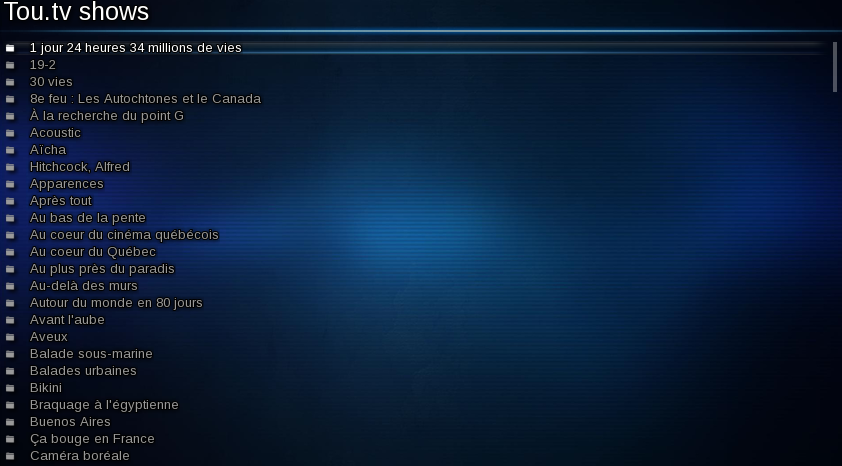
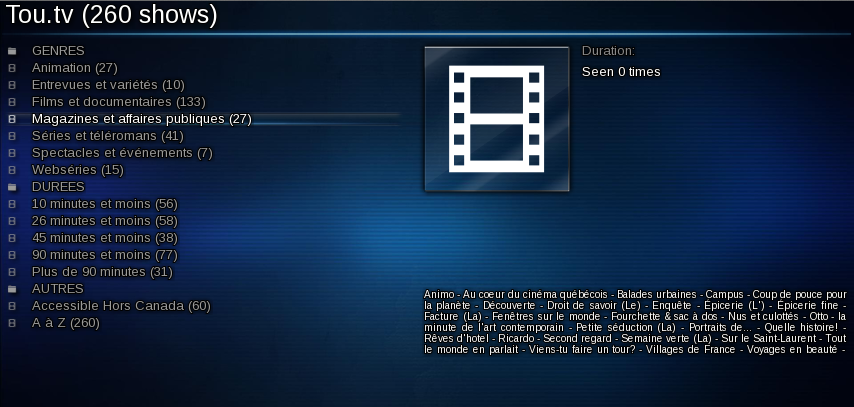
using categories to help navigation

Changed region(s): [[0.0, 0.0, 1.0, 1.0], [0.8029, 0.5307, 0.9881, 0.6781]]

diff --git a/tou.tv.js b/tou.tv.js
@@ -1,7 +1,7 @@
 /**
  * Showtime plugin to watch RadioCanada's tou.tv shows
  *
- * Copyright (C) 2013 Anthony Dahanne
+ * Copyright (C) 2013-2014 Anthony Dahanne
  *
  *     This file is part of Tou.tv Showtime plugin.
  *
@@ -28,77 +28,196 @@
   var HLS_PREFIX = "hls:";
   var EMISSIONS_URL = "http:/api.tou.tv/v1/toutvapiservice.svc/json/GetPageRepertoire";
   var EPISODES_URL = "https://api.tou.tv/v1/toutvapiservice.svc/json/GetEpisodesForEmission?emissionid=";
+  var GENRES_URL = "http://api.tou.tv/v1/toutvapiservice.svc/json/GetPageGenre?genre="
   var JSON_OUTPUT = "&output=json";
   var EPISODE_VALIDATION_URL = "http://api.radio-canada.ca/validationMedia/v1/Validation.html?appCode=thePlatform&deviceType=iphone4&connectionType=wifi&idMedia=";
-
+  var CATEGORIEDUREES =  new Array("10 minutes et moins", "26 minutes et moins", "45 minutes et moins", "90 minutes et moins", "Plus de 90 minutes");
+  var TOUTV = "Tou.tv";
   // Register a service (will appear on home page)
   var service = plugin.createService("Tou.tv", PLUGIN_PREFIX+"start", "tv", true, plugin.path + "toutv.png");
 
-  // register the settings
-  var settings = plugin.createSettings("Tou.tv",
-    plugin.path + "toutv.png",
-    "Showtime plugin to watch RadioCanada's Tou.tv shows (Unofficial)");
-
-  settings.createInfo("info",
-    plugin.path + "toutv.png",
-    "\n"+
-      "Tou.tv Showtime plugin is the integration of the website tou.tv into Showtime.\n" +
-      "Most of the content is in french, and only accessible from Canada (ip address restriction).\n"+
-      "That said, some 'webseries' such as Dakodak or J'adopte un pays, "+
-      "and some other documentaries such as Villages en France can be played from any country "+
-      "(I would say 10% of the shows can be played from outside Canada)\n\n"+
-      "Disable episodes metadata preloading if you are located in Canada; episodes list loading will be faster (if you are not located in Canada, let it enabled; episodes listing will be slower but at least you'll know whether you can play the episodes or not !\n");
-
-  settings.createBool("disableEpisodesMetadataPreloading", "Disable episodes metadata preloading", false, function(v) {
-    service.disableEpisodesMetadataPreloading = v;
-  });
-
-
   // Add a responder to the registered start URI
   plugin.addURI(PLUGIN_PREFIX+"start", function(page) {
-    page.type = "directory";
-    page.metadata.title = "Tou.tv shows";
-
     showtime.trace("Getting emissions list : " + EMISSIONS_URL);
     var getEmissionsResponse = showtime.httpGet(EMISSIONS_URL);
     var emissions = showtime.JSONDecode(getEmissionsResponse);
 
-    for each (var emission in emissions.d.Emissions) {
-      page.appendItem(PLUGIN_PREFIX+"emission:"+emission.Id+":"+emission.Titre, "directory", {
-        title: emission.Titre
+    var totalNumberOfShows = emissions.d.Emissions.length;
+    page.type = "directory";
+    page.metadata.title = TOUTV + " (" + totalNumberOfShows + " shows)";
+
+    page.appendItem(PLUGIN_PREFIX+"start", "directory", {
+        title: "GENRES"
+    });
+    for each (var genre in emissions.d.Genres) {
+      var numberOfShowsPerGenre = 0;
+      var listOfShowsPerGenre = "";
+      for each (var emission in emissions.d.Emissions) {
+        if(emission.Genre == genre.Title) {
+          numberOfShowsPerGenre ++;
+          listOfShowsPerGenre += emission.Titre + " - ";
+        }
+      }
+      page.appendItem(PLUGIN_PREFIX+"genre:"+genre.Id+":"+genre.Title, "video", {
+        title: genre.Title + " (" + numberOfShowsPerGenre +  ")",
+        description: listOfShowsPerGenre
       });
     }
 
+    page.appendItem(PLUGIN_PREFIX+"start", "directory", {
+        title: "DUREES"
+    });
+    for each (var duree in CATEGORIEDUREES) {
+      var numberOfShowsPerDuree = 0;
+      var listOfShowsPerDuree = "";
+      for each (var emission in emissions.d.Emissions) {
+          if(emission.CategorieDuree == duree) {
+            numberOfShowsPerDuree ++;
+            listOfShowsPerDuree += emission.Titre + " - ";
+          }
+        }
+
+      page.appendItem(PLUGIN_PREFIX+"duree:"+duree, "video", {
+        title: duree + " (" + numberOfShowsPerDuree +  ")",
+        description: listOfShowsPerDuree
+      });
+    }
+
+    page.appendItem(PLUGIN_PREFIX+"start", "directory", {
+        title: "AUTRES"
+    });
+
+    var numberOfShowsNotGeoTagged = 0;
+    var listOfShowsNotGeoTagged = "";
+    for each (var emission in emissions.d.Emissions) {
+        if(emission.IsGeolocalise == false) {
+          numberOfShowsNotGeoTagged ++;
+          listOfShowsNotGeoTagged += emission.Titre + " - ";
+        }
+      }
+    page.appendItem(PLUGIN_PREFIX+"outsidecanada", "video", {
+        title: "Accessible Hors Canada" + " (" + numberOfShowsNotGeoTagged +  ")",
+        description: listOfShowsNotGeoTagged
+    });
+    page.appendItem(PLUGIN_PREFIX+"az", "video", {
+        title: "A à Z"  + " (" + totalNumberOfShows +  ")"
+    });
+
     page.loading = false;
+  });
+
+  function genreMatches(emission, genreTitle) {
+    if(emission.Genre == genreTitle) {
+      return true;
+    }
+    return false;
+  }
+
+  function dureeMatches(emission, duree) {
+    if(emission.CategorieDuree == duree) {
+      return true;
+    }
+    return false;
+  }
+
+  function outsideCanadaMatches(emission) {
+    if(emission.IsGeolocalise == false) {
+      return true;
+    }
+    return false;
+  }
+
+  function aToZMatches(emission) {
+    return true;
+  }
+
+  function createListing(parameter, page, matchesFunction) {
+    showtime.trace("Getting emissions list : " + EMISSIONS_URL);
+    var getEmissionsResponse = showtime.httpGet(EMISSIONS_URL);
+    var emissions = showtime.JSONDecode(getEmissionsResponse);
+    for each (var emission in emissions.d.Emissions) {
+      if(matchesFunction(emission, parameter)) {
+        if(emission.NombreEpisodes == 1) {
+          page.appendItem(PLUGIN_PREFIX+"emission:"+emission.Id+":"+emission.Titre, "video", {
+            title: emission.Titre,
+            icon: emission.ImageJorC
+          });
+        } else {
+          page.appendItem(PLUGIN_PREFIX+"emission:"+emission.Id+":"+emission.Titre, "directory", {
+            title: emission.Titre
+          });
+        }
+      }
+    }
+    page.loading = false;
+  }
+
+  // Add a responder to the registered genre URI
+  plugin.addURI(PLUGIN_PREFIX+"genre:(.*):(.*)", function(page,genreId,genreTitle) {
+    page.type = "directory";
+    page.metadata.title = TOUTV + " " + genreTitle;
+
+    createListing(genreTitle, page, genreMatches);
+
+    // showtime.trace("Getting emissions list for genre " + genreTitle + ": " + GENRES_URL);
+    // var getGenreResponse = showtime.httpGet(GENRES_URL + genreId);
+    // var genres = showtime.JSONDecode(getGenreResponse);
+
+  });
+
+
+  // Add a responder to the registered duree URI
+  plugin.addURI(PLUGIN_PREFIX+"duree:(.*)", function(page,duree) {
+    page.type = "directory";
+    page.metadata.title = TOUTV + " " + duree;
+
+    createListing(duree, page, dureeMatches);
+
+  });
+
+    // Add a responder to the registered outsidecanada URI
+  plugin.addURI(PLUGIN_PREFIX+"outsidecanada", function(page) {
+    page.type = "directory";
+    page.metadata.title = TOUTV + " Accessible Hors Canada";
+
+    createListing(null, page, outsideCanadaMatches);
+
+  });
+
+  // Add a responder to the registered az URI
+  plugin.addURI(PLUGIN_PREFIX+"az", function(page) {
+    page.type = "directory";
+    page.metadata.title = TOUTV + " A à Z";
+
+    createListing(null, page, aToZMatches);
+
   });
 
   // Add a responder to the registered emission URI
   plugin.addURI(PLUGIN_PREFIX+"emission:(.*):(.*)", function(page,emissionId,title) {
     page.type = "directory";
-    page.metadata.title = title;
+    page.metadata.title = TOUTV + " " + title;
 
     showtime.trace("Getting episodes list : " + EPISODES_URL + emissionId);
     var getEpisodesResponse = showtime.httpGet(EPISODES_URL + emissionId);
 
     var episodes = showtime.JSONDecode(getEpisodesResponse);
     for each (var episode in episodes.d) {
-      var problemTitle = "";
-      var problemDescription = "";
-      // we don't try to load all the episodes' metadata if the user disabled the setting
-      if(service.disableEpisodesMetadataPreloading == 0) {
-        showtime.trace("Getting episode metadata to check availability : " + EPISODE_VALIDATION_URL + episode.PID + JSON_OUTPUT);
-        var getEpisodeResponse = showtime.httpGet(EPISODE_VALIDATION_URL + episode.PID + JSON_OUTPUT);
-        var episodeMetadata = showtime.JSONDecode(getEpisodeResponse);
-
-        if(episodeMetadata.url==null && episodeMetadata.errorCode==1) {
-          problemTitle = " - THIS EPISODE CAN'T BE PLAYED";
-          problemDescription = "THIS EPISODE CAN'T BE PLAYED FROM YOUR COUNTRY DUE TO IP ADDRESS RESTRICTIONS\u000A(Most probably this content is only available for Canadians)\u000A\u000A";
+      var displayedTitle = "";
+      if (episodes.d.length == 1) {
+        displayedTitle = title;
+      } else {
+        var fullTitle = episode.FullTitle;
+        var indexOfColumn = fullTitle.indexOf(":");
+        if(indexOfColumn != 0) {
+          fullTitle =  fullTitle.substring(indexOfColumn + 1);
         }
+        displayedTitle = episode.SeasonAndEpisodeLong + " -" + fullTitle;
       }
 
       var metadata = {
-        title: episode.SeasonAndEpisodeLong + problemTitle,
-        description: problemDescription + episode.Description,
+        title: displayedTitle,
+        description: episode.Description,
         year: parseInt(episode.Year),
         duration: episode.LengthString,
         icon: episode.ImagePlayerNormalC
@@ -108,13 +227,14 @@
     page.loading = false;
   });
 
+  // Add a responder to the registered video URI
   plugin.addURI(PLUGIN_PREFIX+"video:(.*)", function(page, pid) {
     // we need to re poll the episode metadata since the pid could be outdated (if the user waited too long)
     showtime.trace("Getting episode metadata before playing : " + EPISODE_VALIDATION_URL + pid + JSON_OUTPUT);
     var getEpisodeResponse = showtime.httpGet(EPISODE_VALIDATION_URL + pid + JSON_OUTPUT);
     var episodeMetadata = showtime.JSONDecode(getEpisodeResponse);
     if(episodeMetadata.url == null ) {
-      page.error("Because you are not located in Canada, you can't play this episode; see settings");
+      page.error("You need to be in Canada to play this episode; select 'Accessible Hors Canada' instead");
     } else {
       page.type = 'video';
       page.source = HLS_PREFIX + episodeMetadata.url;

diff --git a/README.md b/README.md
@@ -9,7 +9,7 @@ Tou.tv Showtime plugin allows the integration of tou.tv videos into Showtime.
 
 Most of the content is in french, and only accessible from Canada (ip address restriction).
 
-That said, some 'webseries' such as Dakodak or J'adopte un pays, and some other documentaries such as Villages en France can be played from any country (I would say 10% of the shows can be played from outside Canada)
+That said, some 'webseries' such as Dakodak or J'adopte un pays, and some other documentaries such as Villages en France can be played from any country (I would say 15% of the shows can be played from outside Canada) - choose "Accessible Hors Canada" if you live outside Canada.
 
 
 Git: https://github.com/anthonydahanne/showtime-plugin-tou.tv
@@ -33,6 +33,7 @@ Git: https://github.com/anthonydahanne/showtime-plugin-tou.tv
 
 ![Screenshot](https://raw.github.com/anthonydahanne/showtime-plugin-tou.tv/master/screenshots/tou.tv-homescreen.png "home")
 ![Screenshot](https://raw.github.com/anthonydahanne/showtime-plugin-tou.tv/master/screenshots/tou.tv-list-of-shows.png "list of shows")
+![Screenshot](https://raw.github.com/anthonydahanne/showtime-plugin-tou.tv/master/screenshots/tou.tv-list-of-categories.png "list of categories")
 ![Screenshot](https://raw.github.com/anthonydahanne/showtime-plugin-tou.tv/master/screenshots/tou.tv-list-of-episodes.png "list of episodes")
 
 ## License notes
